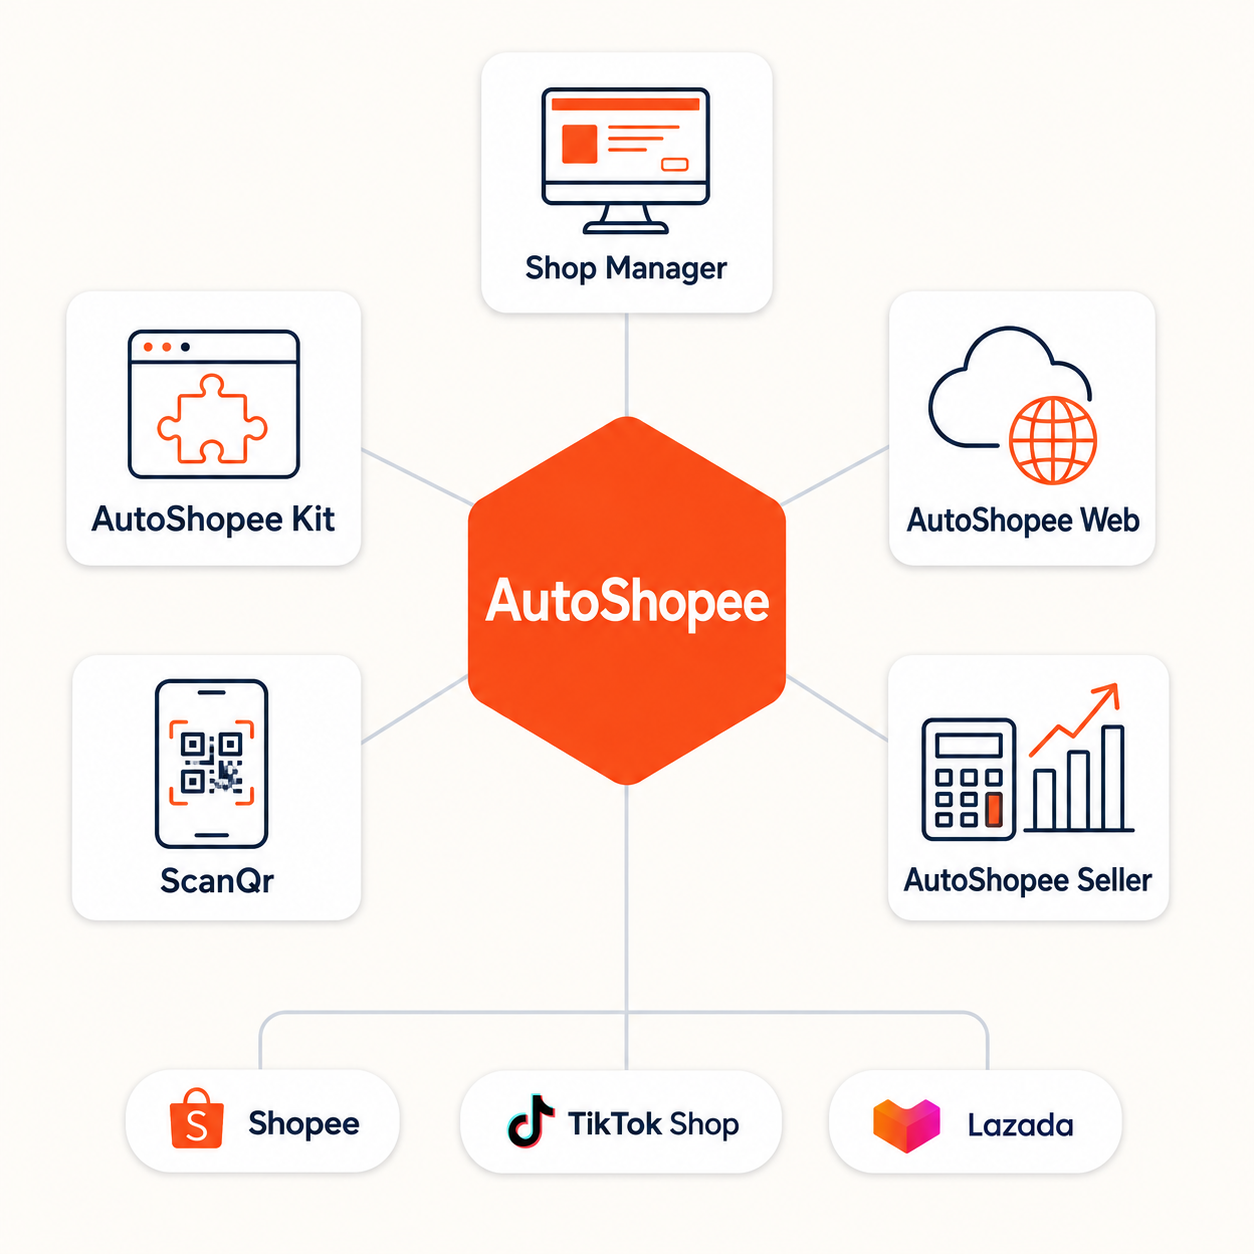
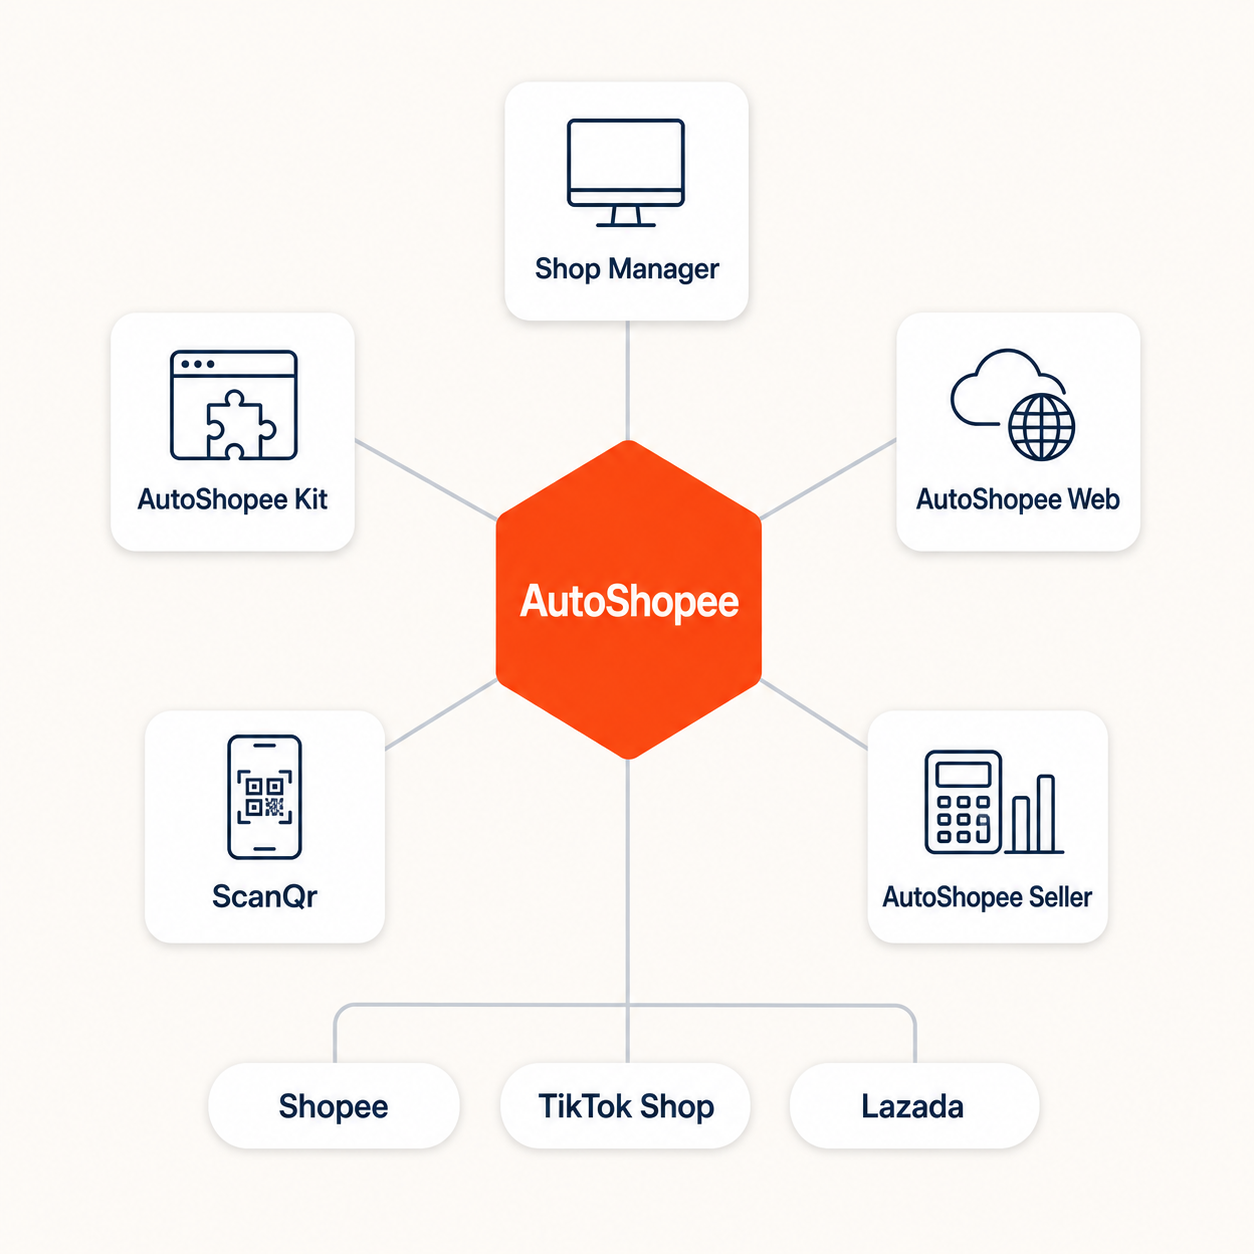
docs: bỏ dòng điều hướng và khối đăng ký, đổi sơ đồ hệ sinh thái
Bỏ câu chỉ sang thanh bên trái và khối hint về đăng ký tài khoản theo
yêu cầu.

Sơ đồ vẽ lại cho cân đối: năm thẻ bằng nhau đặt đều quanh tâm, nan hoa
dài bằng nhau, không còn khoảng trống lệch như bản trước.

Agent: Claude Code · Model: claude-opus-5[1m]

Claude-Session: https://claude.ai/code/session_01J1zYgK2xJy5yYSKpzKhmGz

diff --git a/README.md b/README.md
@@ -36,12 +36,6 @@ Bán 5 shop thì mở 5 trình duyệt, 5 lần đăng nhập, 5 lần bị hỏ
 | **ScanQr** | Quét mã bằng điện thoại, dữ liệu nhảy lên máy tính. Kiểm đơn trước khi đóng gói |
 | **AutoShopee Seller** | Tính giá bán, phí sàn, điểm hoà vốn |
 
-Chọn mục ở thanh bên trái để xem hướng dẫn từng phần.
-
-{% hint style="info" %}
-Tài khoản đăng ký ở [autoshopee.com/auth/register](https://autoshopee.com/auth/register), dùng thử 3 ngày không khoá tính năng nào. Xem giá tại [autoshopee.com](https://autoshopee.com).
-{% endhint %}
-
 ***
 
 ## Cần người hỗ trợ
